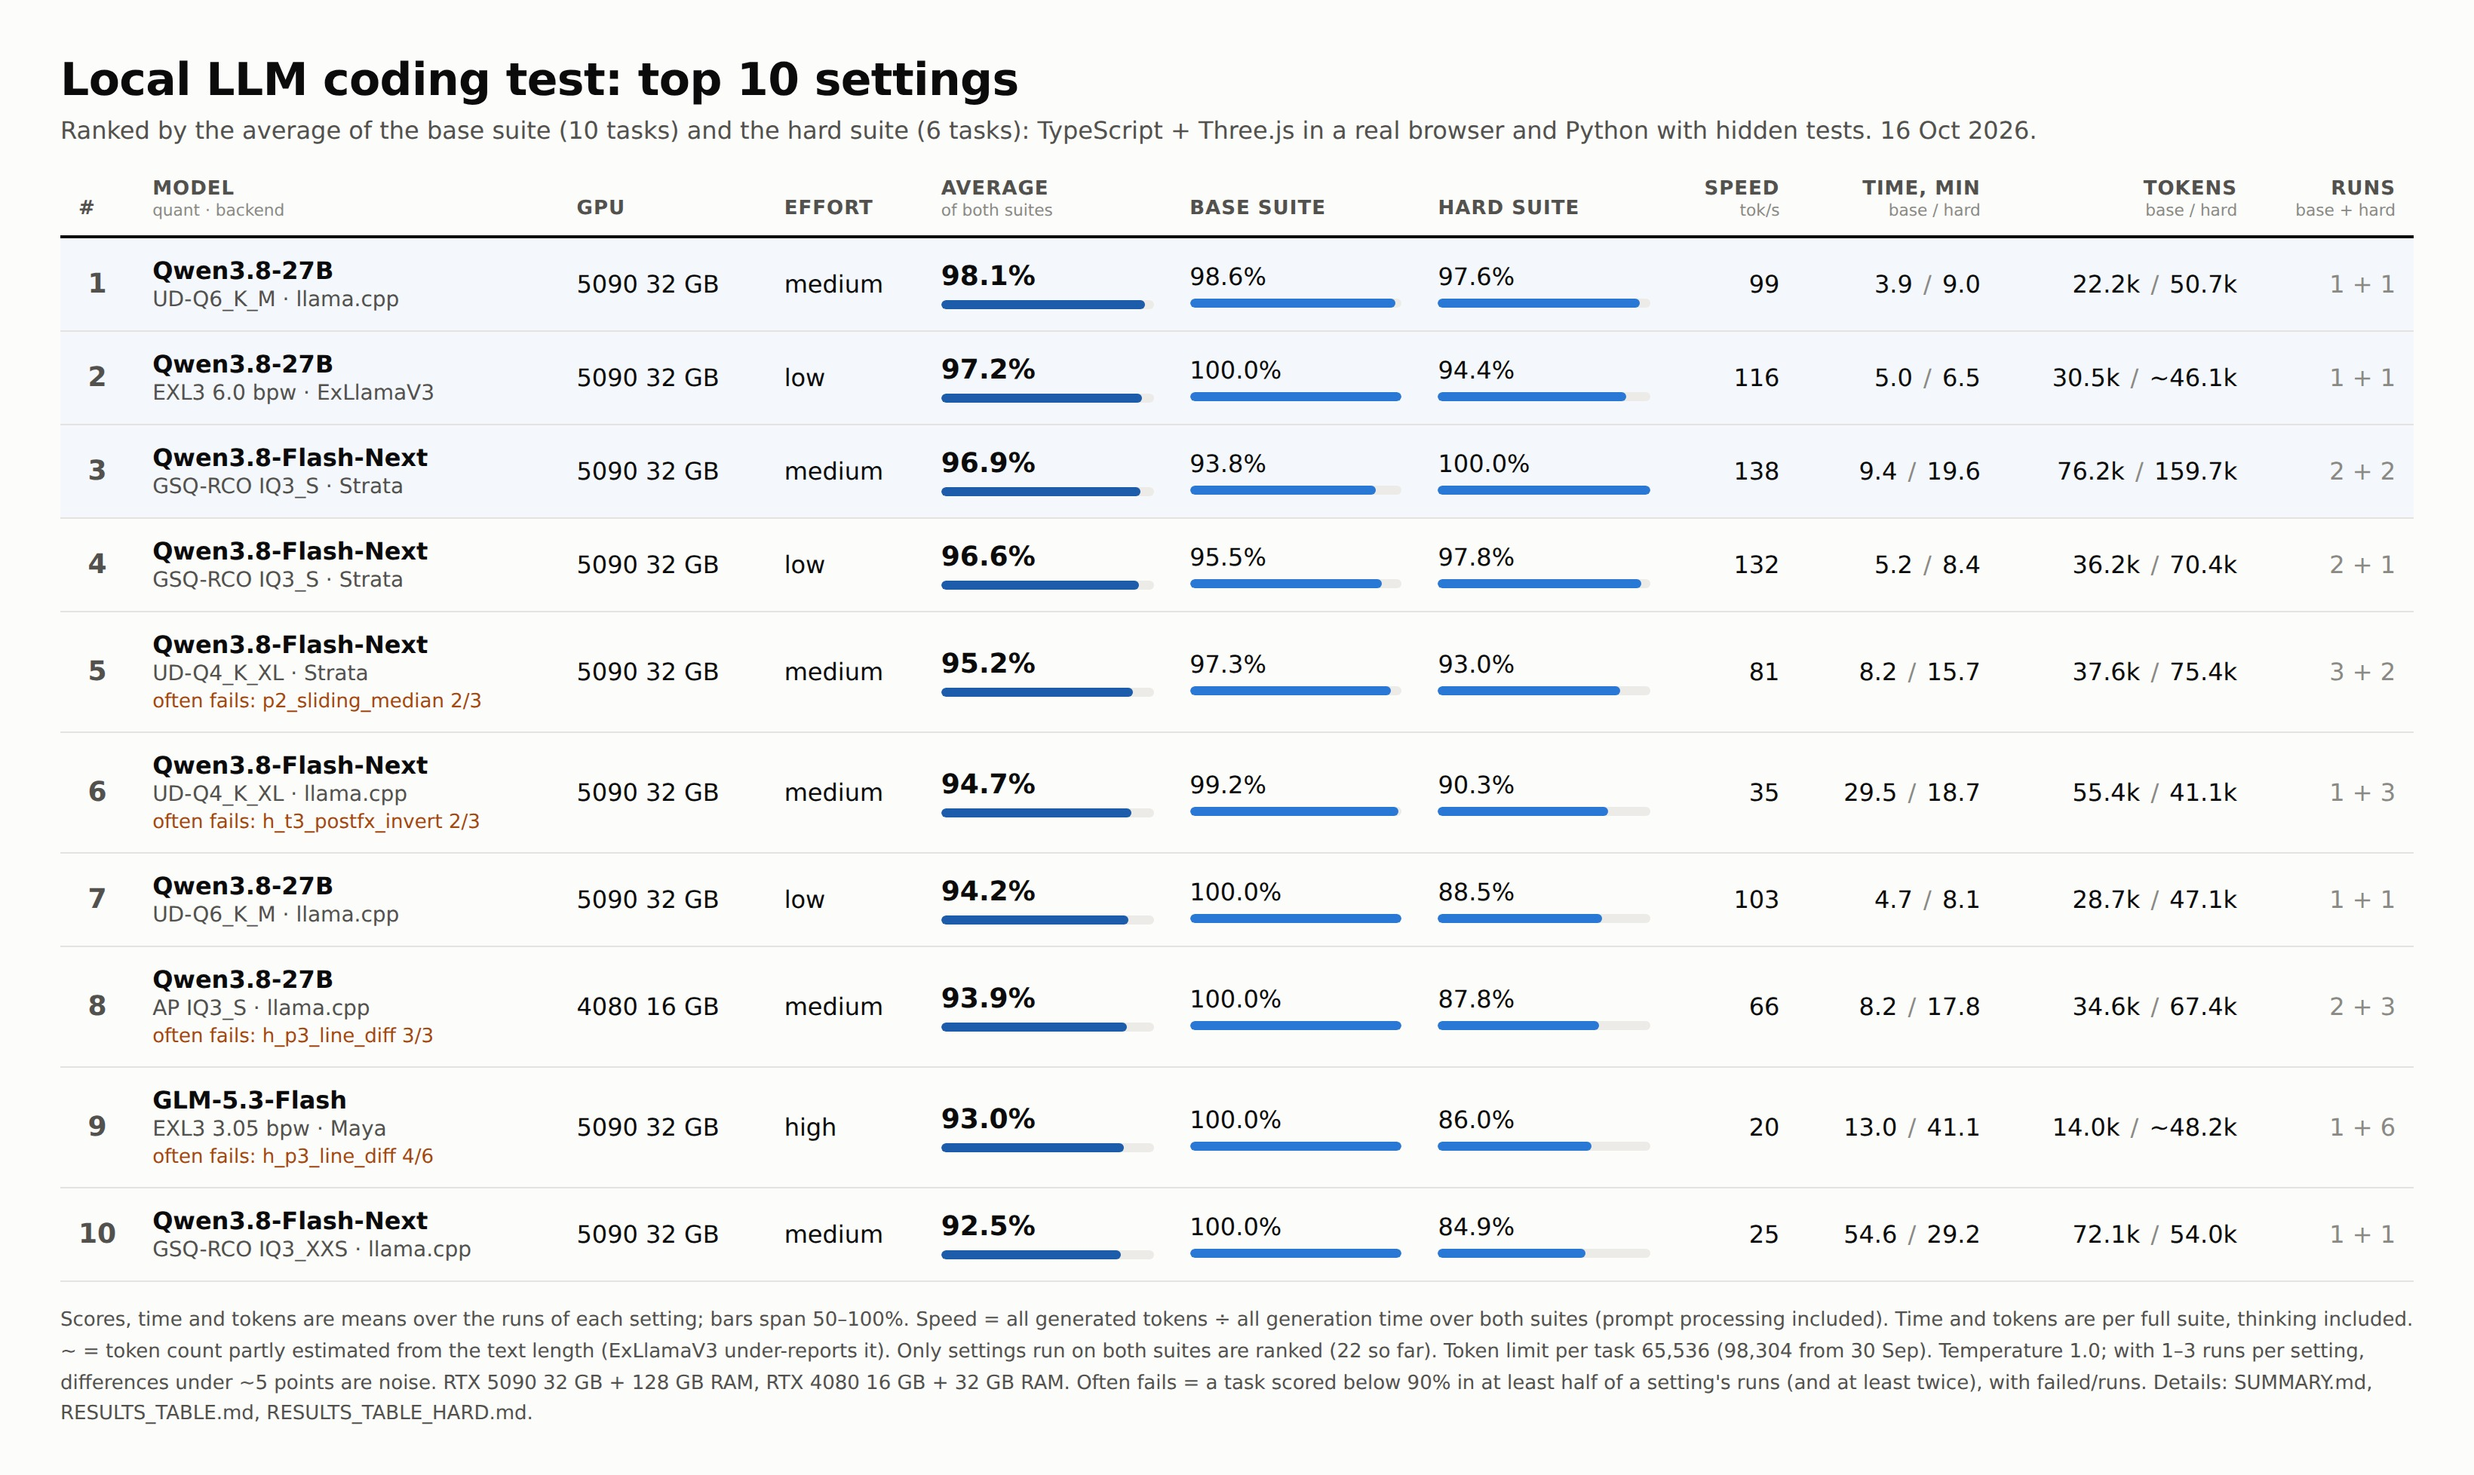
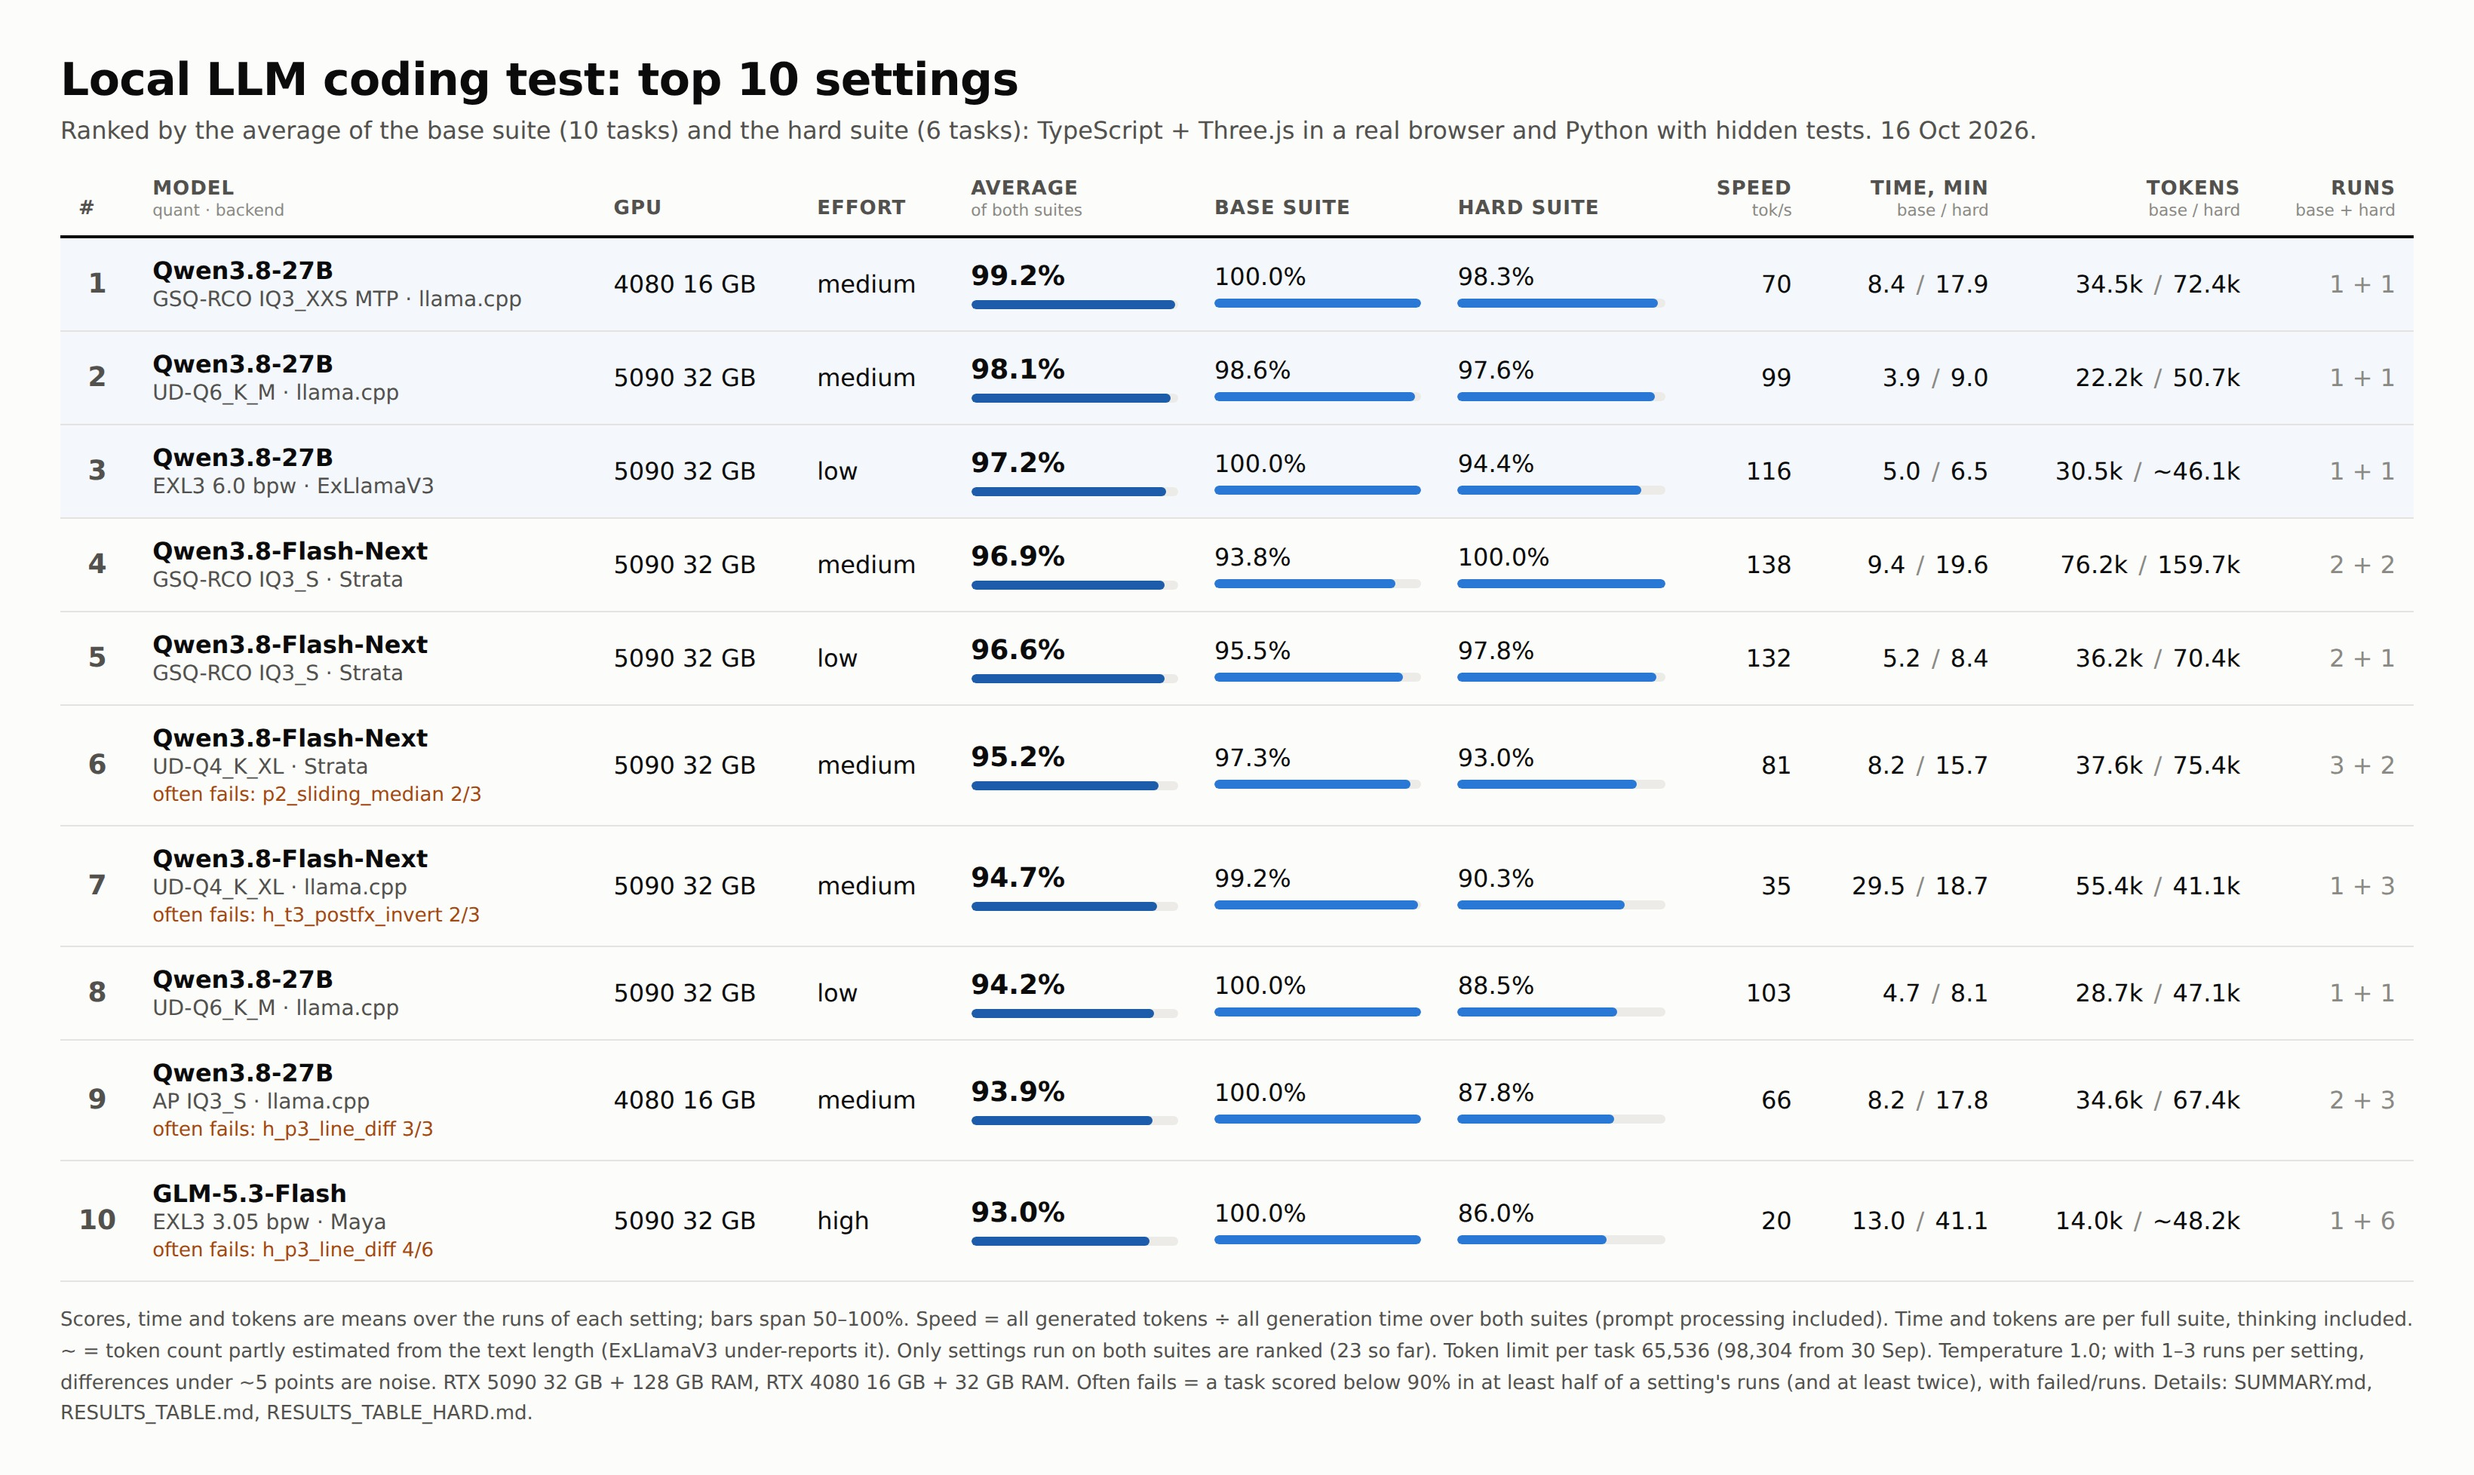
Add RTX 4080 base run of Qwen3.8-27B GSQ-RCO IQ3_XXS MTP (100%), now first overall
Claude-Session: https://claude.ai/code/session_01Hw6zjR7HPW2DCjpvk73ycY

diff --git a/SUMMARY.md b/SUMMARY.md
@@ -2,7 +2,7 @@
 
 ## TL;DR
 
-- **Best overall: Qwen3.8-27B UD-Q6_K_M at `medium` (llama.cpp, RTX 5090).** Its average over both suites is 98.1%: 98.6% on the base suite and 97.6% on the hard suite. It takes 4 and 9 minutes. See [top10.jpg](top10.jpg).
+- **Best overall: Qwen3.8-27B GSQ-RCO IQ3_XXS MTP at `medium` (llama.cpp, RTX 4080 16 GB): 99.2%** over both suites (base 100% in 8.4 min, hard 98.3% in 18 min), but on one run per suite (15–16 Oct). The best repeated setting is Qwen3.8-27B UD-Q6_K_M at `medium` on the RTX 5090: 98.1% (base 98.6%, hard 97.6%), in 4 and 9 minutes. See [top10.jpg](top10.jpg).
 - **Base suite (10 tasks) is saturated.** Several settings on the RTX 5090 score 100%. The fastest are:
   - Qwen3.8-27B UD-Q6_K_M at `low`: 4.7 min;
   - Qwen3.8-27B EXL3 6.0 bpw at `low`: 5.0 min;
@@ -253,9 +253,10 @@ All runs: [RESULTS_TABLE_HARD.md](RESULTS_TABLE_HARD.md), raw data in `results_h
 | 17 | Qwen3.8-27B | EXL3 3.0 bpw qv44 | 4080 | medium | 1 | 66.7% | – | 10.9 | ~53.9k | 83.2 |
 
 **On both suites together** (the average of the two scores, [top10.jpg](top10.jpg)), the top three are:
-1. Qwen3.8-27B Q6 at `medium`: 98.1%.
-2. Qwen3.8-27B EXL3 6.0 bpw at `low`: 97.2%.
-3. Flash-Next IQ3_S in Strata at `medium`: 96.9%. Before the 3 Oct base-suite repeat it was first with 100%.
+1. Qwen3.8-27B GSQ-RCO IQ3_XXS MTP on the 4080 at `medium`: 99.2% (one run per suite, 15–16 Oct).
+2. Qwen3.8-27B Q6 at `medium`: 98.1%.
+3. Qwen3.8-27B EXL3 6.0 bpw at `low`: 97.2%.
+4. Flash-Next IQ3_S in Strata at `medium`: 96.9%. Before the 3 Oct base-suite repeat it was first with 100%.
 
 **Best run against mean.** [top10_hard.jpg](top10_hard.jpg) and [RESULTS_TABLE_HARD.md](RESULTS_TABLE_HARD.md) rank the settings both by their best run and by the mean of all runs. Only repeated settings can move between the two:
 - **Flash-Next UD-Q4_K_XL moves the most.** In Strata it is 2nd by best run (99.6% in 7.7 min) but 6th by mean (93.0%). In llama.cpp it is 3rd by best run (98.1%) but 7th by mean (90.3%).
@@ -373,7 +374,13 @@ All GLM variants in all suites: [RESULTS_TABLE_GLM.md](RESULTS_TABLE_GLM.md) and
 
 # Part 6: new RTX 4080 runs (15–16 Oct)
 
-All 4080 settings in one image: [rtx4080.jpg](rtx4080.jpg) (overall, base suite and hard suite, with time, tokens, tok/s and the tasks each setting keeps failing). New hard-suite runs, all at `medium`:
+All 4080 settings in one image: [rtx4080.jpg](rtx4080.jpg) (overall, base suite and hard suite, with time, tokens, tok/s and the tasks each setting keeps failing). New runs, all at `medium`. Base suite:
+
+| Quant | Backend | Score | Time (min) | Tokens | tok/s | Notes |
+|---|---|---|---|---|---|---|
+| GSQ-RCO IQ3_XXS MTP | llama.cpp | **100.0%** | 8.4 | 34.5k | 72 | all 10 tasks solved, including `p2_sliding_median` (16 Oct) |
+
+Hard suite:
 
 | Quant | Backend | Score | Time (min) | Tokens | tok/s | Notes |
 |---|---|---|---|---|---|---|
@@ -381,7 +388,8 @@ All 4080 settings in one image: [rtx4080.jpg](rtx4080.jpg) (overall, base suite 
 | EXL3 3.0 bpw | ExLlamaV3 | 91.7% | 8.7 | 45.5k | 89 | diff half right (`h_p3` 50%); now 92.6% over 3 runs |
 | EXL3 2.2 bpw | ExLlamaV3 | 83.9% | 15.3 | 75.0k | 83 | first hard run; diff wrong (`h_p3` 17%) |
 
-- **IQ3_XXS MTP is the best 4080 file on the hard suite so far**, but on one run only. Its base-suite runs so far are of the abliterated IQ3_XXS without MTP (86–88%), so a base run of this file is the next useful test.
+- **IQ3_XXS MTP is now first overall, on any GPU: 99.2%** (base 100%, hard 98.3%). That is one run per suite; at temperature 1.0 single runs can swing by 10–20 points, so repeating both suites is the next useful test.
+- **It is much better than the abliterated IQ3_XXS without MTP** (86–88% on the base suite). It is the only 2–3-bit file on the 4080 that solved both `p2_sliding_median` and `h_p3_line_diff`.
 - **On the 4080 the hard suite again comes down to `h_p3_line_diff`.** It is solved by IQ3_XXS MTP. EXL3 3.0 bpw fails it in 2 of 3 runs and AP IQ3_S in 3 of 3.
 - **The run with IQ3_XXS MTP was saved in `results/`;** it was moved to `results_hard/`, where hard-suite runs belong.
 - **ExLlamaV3 token counts:** the new runs report 2.5–3.6 characters per token, so the counts are plausible and were not re-estimated.

diff --git a/README.md b/README.md
@@ -42,8 +42,8 @@ All 4080 settings, overall (base + hard) and per suite, with time, tokens, speed
 
 ![RTX 4080 16 GB only: overall, base suite and hard suite](rtx4080.jpg)
 
-- **Overall (both suites): AP IQ3_S at `medium` 93.9%, EXL3 3.0 bpw at `medium` 91.7%, EXL3 2.2 bpw at `medium` 85.1%.**
-- **Hard suite: the new GSQ-RCO IQ3_XXS MTP (15 Oct) scored 98.3%** in 17.9 min (one run), the best 4080 result so far. It is not in the overall ranking yet, because it has no base-suite run.
+- **GSQ-RCO IQ3_XXS MTP at `medium` is the best 4080 file, and first overall on any GPU: 99.2%** (base 100% in 8.4 min, hard 98.3% in 17.9 min, about 70 tok/s). This rests on one run per suite (15–16 Oct); repeats will show whether it holds.
+- **Next on the 4080 overall:** AP IQ3_S at `medium` 93.9%, EXL3 3.0 bpw at `medium` 91.7%, EXL3 2.2 bpw at `medium` 85.1%.
 - **EXL3 3.0 bpw is the steadiest on the hard suite:** 92–94% in 3 runs, about 10 min at 85 tok/s. EXL3 2.2 bpw scored 83.9% (first run, 16 Oct).
 - **`h_p3_line_diff` is the 4080's weak spot:** AP IQ3_S fails it in 3 of 3 runs, EXL3 3.0 bpw in 2 of 3. On the base suite the 2–3-bit files keep failing `p2_sliding_median`.
 
@@ -61,7 +61,7 @@ All 66 base-suite runs and per-task scores: [RESULTS_TABLE.md](RESULTS_TABLE.md)
 - **by each setting's best run**: what the setting can do on a good run;
 - **by the mean of all its runs**: what to expect from it on a typical run.
 
-Settings with one run have the same score in both, so only repeated ones move. On both suites together the best setting is Qwen3.8-27B Q6 at `medium` (98.1%, see the image above). GLM-5.3-Flash in llama.cpp or ExLlamaV3 hits the 60-minute limit on `h_p3_line_diff` at `high` in 6 of 7 runs.
+Settings with one run have the same score in both, so only repeated ones move. On both suites together the best setting is now Qwen3.8-27B GSQ-RCO IQ3_XXS MTP at `medium` on the 16 GB RTX 4080 (99.2%, one run per suite), ahead of Q6 on the 5090 at `medium` (98.1%); see the image above. GLM-5.3-Flash in llama.cpp or ExLlamaV3 hits the 60-minute limit on `h_p3_line_diff` at `high` in 6 of 7 runs.
 
 ![Hard suite: top 10 by best run and by mean](top10_hard.jpg)
 

diff --git a/RESULTS_TABLE_GLM.md b/RESULTS_TABLE_GLM.md
@@ -61,6 +61,6 @@ Mean score per suite, with the number of runs, the mean time and the mean tokens
 | Model | Quant | Backend | Effort | Runs | Mean | Min–max | Score @10 min/32k | Broken | Mean time (min) | Mean tokens | Avg tok/s (from time) | Problem tasks |
 |---|---|---|---|---|---|---|---|---|---|---|---|---|
 | GLM-5.3-Flash | GSQ-RCO 3.5-bit | Maya | high | 2 | **100.0%** | 100–100 | 100.0% | 0% | 3.0 | 1.2k | 6.7 | – |
-| GLM-5.3-Flash derisked | Maya-M | Maya | high | 4 | **99.6%** | 98–100 | 99.6% | 0% | 1.9 | 1.2k | 10.3 | – |
+| GLM-5.3-Flash derisked | Maya-M | Maya | high | 4 | **99.6%** | 98–100 | 99.6% | 0% | 2.0 | 1.2k | 10.3 | – |
 
 Score @10 min/32k = the score if every task had to finish within 10 minutes and 32,768 tokens. Broken = share of tasks where generation itself failed (out of tokens or time, stopped mid-thought, looped, no final answer). `~` = token count partly estimated. All other suites' tables: RESULTS_TABLE*.md.

diff --git a/RESULTS_TABLE_TOOLS.md b/RESULTS_TABLE_TOOLS.md
@@ -11,7 +11,7 @@ Hardware: RTX 5090 32 GB + 128 GB RAM, and RTX 4080 16 GB + 32 GB DDR5 (the GPU 
 | # | Model | Quant | Backend | GPU | Reasoning effort | Runs | Mean score | Min–max | Score @10 min/32k | Broken | Mean time (min) | Mean tokens | Avg tok/s (from time) | VRAM GB |
 |---|---|---|---|---|---|---|---|---|---|---|---|---|---|---|
 | 1 | GLM-5.3-Flash | GSQ-RCO 3.5-bit | Maya | RTX 5090 32 GB | high | 2 | **100.0%** | 100–100 | 100.0% | 0% | 3.0 | 1.2k | 6.7 | 31.2 |
-| 2 | GLM-5.3-Flash derisked | Maya-M | Maya | RTX 5090 32 GB | high | 4 | **99.6%** | 98–100 | 99.6% | 0% | 1.9 | 1.2k | 10.3 | 31.1 |
+| 2 | GLM-5.3-Flash derisked | Maya-M | Maya | RTX 5090 32 GB | high | 4 | **99.6%** | 98–100 | 99.6% | 0% | 2.0 | 1.2k | 10.3 | 31.1 |
 
 ## Stability (settings run 2+ times)
 
